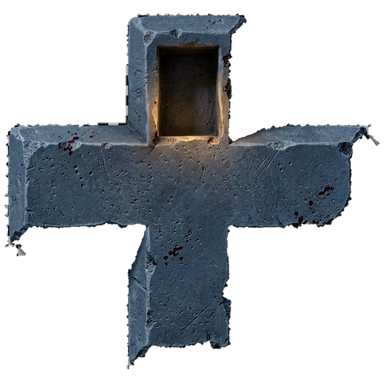
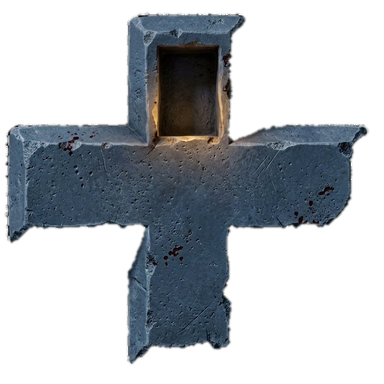
chore(2d-art): smoother d-pad outline, delivery status in the plan
The d-pad's keyed outline is smoothed and kept inside its measured plus,
so the stone arms have straight edges at phone size. 2D-gameplay-assets.md
records what the 14 Oct delivery wired in and what is still to come
(runner and devil sheets, emotes, salt circle, sign, cursor, fonts). The
Devil stand-in computes its position once.

diff --git a/lib/presentation/gameplay/maze_painter.dart b/lib/presentation/gameplay/maze_painter.dart
@@ -219,21 +219,22 @@ class MazePainter extends CustomPainter {
     }
 
     final devil = devilCell;
-    if (devil != null) {
-      final devilCenter = camera
-          .cellCenter(_offsetOf(devil))
-          .translate(0, sin(time * 3.4) * cellSize * 0.07);
-      {
-        // Stand-in until the devil sheets land: a shadow with burning eyes.
-        canvas.drawCircle(
-          devilCenter,
-          cellSize * 0.42,
-          Paint()
-            ..color = _danger.withValues(alpha: 0.35)
-            ..maskFilter = const MaskFilter.blur(BlurStyle.normal, 6),
-        );
-        canvas.drawCircle(devilCenter, cellSize * 0.32, Paint()..color = _void);
-      }
+    final devilCenter = devil == null
+        ? null
+        : camera
+              .cellCenter(_offsetOf(devil))
+              .translate(0, sin(time * 3.4) * cellSize * 0.07);
+    if (devilCenter != null) {
+      // Stand-in until the devil sheets land: a shadow (its eyes burn above
+      // the dark, below).
+      canvas.drawCircle(
+        devilCenter,
+        cellSize * 0.42,
+        Paint()
+          ..color = _danger.withValues(alpha: 0.35)
+          ..maskFilter = const MaskFilter.blur(BlurStyle.normal, 6),
+      );
+      canvas.drawCircle(devilCenter, cellSize * 0.32, Paint()..color = _void);
     }
 
     _paintEffects(canvas, camera, MazeFxKind.smoke);
@@ -241,10 +242,8 @@ class MazePainter extends CustomPainter {
 
     // Above the dark: the Devil's eyes (seen before its body), the exit's
     // sparkles and the ghost wisps glow on their own.
-    if (devil != null) {
-      final eyes = camera
-          .cellCenter(_offsetOf(devil))
-          .translate(0, sin(time * 3.4) * cellSize * 0.07 - cellSize * 0.05);
+    if (devilCenter != null) {
+      final eyes = devilCenter.translate(0, -cellSize * 0.05);
       final eye = Paint()..color = _danger;
       canvas.drawCircle(eyes.translate(-cellSize * 0.1, 0), cellSize * 0.05, eye);
       canvas.drawCircle(eyes.translate(cellSize * 0.1, 0), cellSize * 0.05, eye);

diff --git a/tool/process_2d_assets.py b/tool/process_2d_assets.py
@@ -654,6 +654,16 @@ def build_ui():
     idle = pressed.copy()
     arm = pressed[y1 + 1:y1 + 1 + y0, x0:x1 + 1]  # the down arm next to the centre
     idle[0:arm.shape[0], x0:x1 + 1] = arm[::-1]
+    # keying left spikes and notches on the stone's edge: smooth the outline
+    # and keep it just inside the measured plus, so the arms stay straight
+    inside = ndimage.binary_erosion(plus > 0.5, iterations=2)
+    for pad_art in (idle, pressed):
+        solid = ndimage.binary_closing(
+            ndimage.binary_opening(pad_art[..., 3] > 128, iterations=3), iterations=3) & inside
+        lab, n = ndimage.label(solid)
+        if n > 1:  # just the cross, no stray specks
+            solid = lab == 1 + int(np.argmax(ndimage.sum(solid, lab, range(1, n + 1))))
+        pad_art[..., 3] = (ndimage.gaussian_filter(solid.astype(np.float32), 0.9) * 255).astype(np.uint8)
     save(Image.fromarray(idle), 'ui/dpad.png')
     save(Image.fromarray(pressed), 'ui/dpad_pressed.png')
 

diff --git a/2D-gameplay-assets.md b/2D-gameplay-assets.md
@@ -24,6 +24,26 @@ store listing.
    its slot keeps today's look, so you can deliver in any order.
 4. Work in the order of §12.
 
+## Delivered so far (14 Oct 2026, `fearflip_assets.zip`)
+
+The first delivery is painted (Nano Banana) art, so the game uses the §4 "smooth hand-painted" look: no pixel
+snapping. `tool/process_2d_assets.py <zip>` keys out the fake backdrops (drawn checkerboards, white, sky), cuts
+the sheets into strips under `assets/images/2d/`, covers the ✦ watermark and self-checks every strip. Re-run it
+on a new delivery; the crop boxes in it are measured on this one.
+
+**Wired in:** both tilesets and floor extras (walls autotiled with capstone rims, corners and rock faces), start,
+exit (gold in WAKE, red eyes in NIGHTMARE: `extra_devil_eyes_exit`), spirit-candle safe zones, both trap sheets,
+torches, both prop sheets, smoke (the Devil appears/vanishes), debris (trap collapse), sparkles (exit), wisps and
+drips (NIGHTMARE), flip (the world flips), dust (footsteps), the bone arrow (`extra_bloody_bone`, the off-screen
+exit pointer), all 16 icons, the timebar, pause button, d-pad, joystick and knob, and `ui_textbox` (round, so it
+became the medallion on every in-run dialog). The maze is dark with light around the runner, torches, the exit
+and safe zones (code).
+
+**Still to deliver:** every runner and devil sheet and portrait (§7, §8: the runner is still a lantern glow and
+the Devil a shadow with eyes), `fx_emotes`, `obj_salt_circle` (the spirit-candle tile stands in), `ui_dpad_press`
+(the d-pad's idle look is made from the pressed one), `ui_sign`, `ui_cursor`, and the two fonts (numbers use the
+system font with a dark outline until Press Start 2P is bundled).
+
 ---
 
 ## 1. The look
